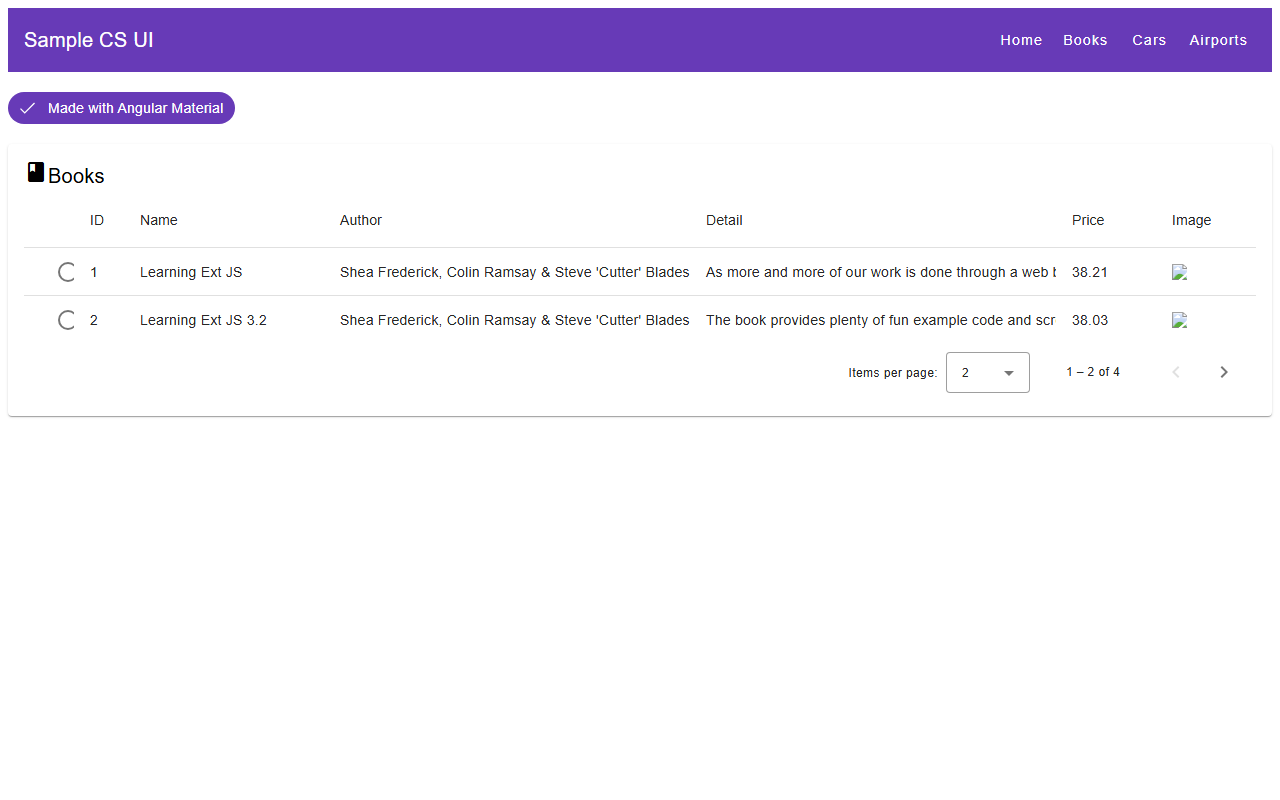
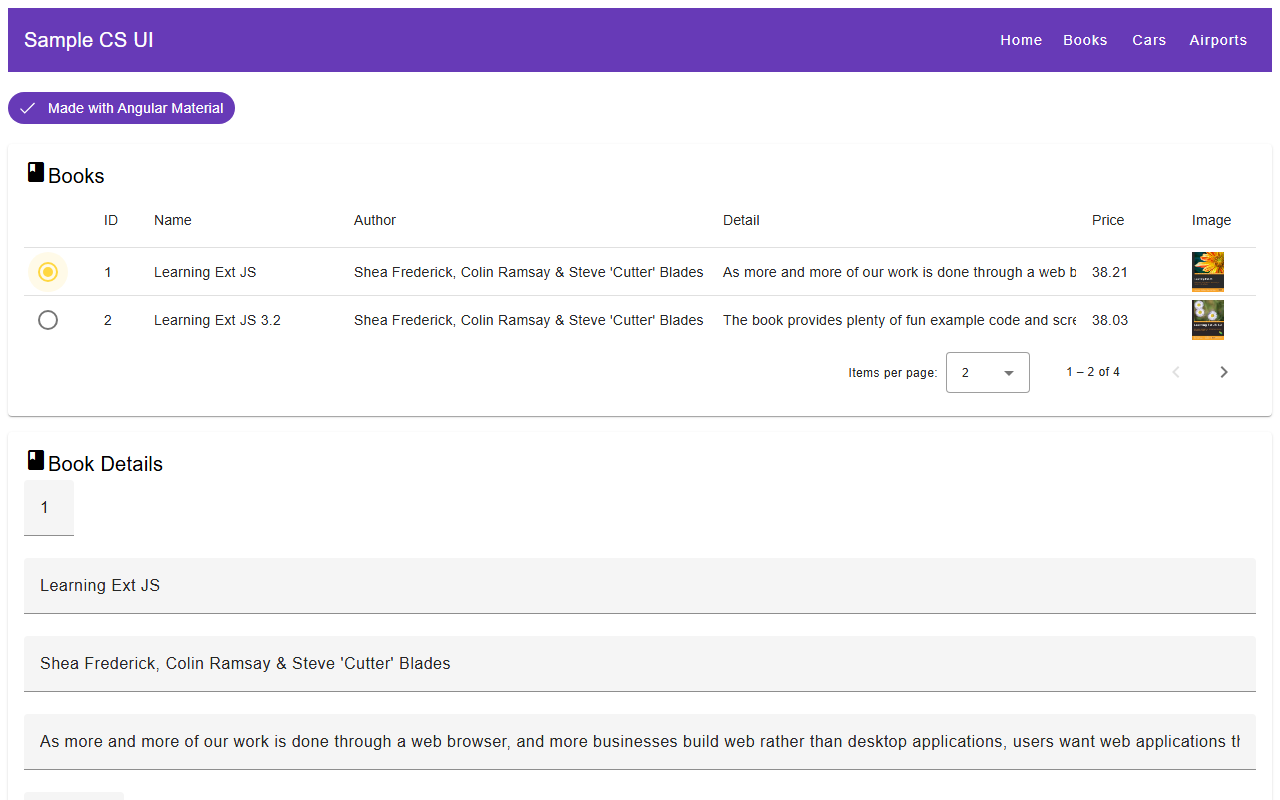
fix: fix broken images and books selection column width
- Replace /api/ image paths with /assets/ in books list, books detail,
  cars list and car detail (proxy is gone, assets are served directly)
- books-detail: replace <input type="image"> with <img> (was rendering
  as a broken submit button)
- books-list: widen selection column 50px → 64px so mat-radio-button is
  not clipped; fix image thumbnail to use height-based sizing instead of
  width: 25% of a narrow column
- cars-list: apply consistent height-based thumbnail sizing
- Update screenshots

diff --git a/src/app/books/books-list/books-list.component.html b/src/app/books/books-list/books-list.component.html
@@ -33,7 +33,7 @@
         </ng-container>
         <ng-container matColumnDef="image">
           <mat-header-cell *matHeaderCellDef> Image </mat-header-cell>
-          <mat-cell *matCellDef="let book"> <img src="/api/{{book.image}}"/> </mat-cell>
+          <mat-cell *matCellDef="let book"> <img src="/assets/{{book.image}}"/> </mat-cell>
         </ng-container>
         <mat-header-row *matHeaderRowDef="displayedColumns"></mat-header-row>
         <mat-row *matRowDef="let row; columns: displayedColumns;"></mat-row>

diff --git a/src/app/books/book-details/book-details.component.html b/src/app/books/book-details/book-details.component.html
@@ -21,7 +21,7 @@
             <input matInput placeholder="Price" readonly [value]="book.price" />
         </mat-form-field>
         <div>
-            <input placeholder="Image" id="bookImage" type="image" src="/api/{{book.image}}"/>
+            <img id="bookImage" alt="Book cover" src="/assets/{{book.image}}" style="max-height: 120px"/>
         </div>
       </form>
     </mat-card-content>

diff --git a/src/app/books/books-list/books-list.component.css b/src/app/books/books-list/books-list.component.css
@@ -1,5 +1,6 @@
 .mat-column-selection {
-  flex: 0 0 50px;
+  flex: 0 0 64px;
+  padding-left: 4px;
 }
 .mat-column-id {
   flex: 0 0 50px;
@@ -24,8 +25,9 @@
   flex: 0 0 100px;
 }
 .mat-column-image {
-  flex: 0 0 100px;
+  flex: 0 0 80px;
 }
 .mat-column-image img {
-  width: 25%;
+  height: 40px;
+  width: auto;
 }

diff --git a/src/app/cars/car-details/car-details.component.html b/src/app/cars/car-details/car-details.component.html
@@ -19,7 +19,7 @@
         <label>Wiki :</label>
         <a href="{{car.wiki}}">Wiki</a>
         <label>Image :</label>
-        <img src="api/{{car.image}}">
+        <img src="/assets/{{car.image}}" style="max-height: 120px; width: auto">
       </div>
     </form>
   </p-panel>

diff --git a/src/app/cars/cars-list/cars-list.component.html b/src/app/cars/cars-list/cars-list.component.html
@@ -37,7 +37,7 @@
           <a href="{{car.wiki}}">Wiki</a>
         </td>
         <td>
-          <img src="/api/{{car.image}}" style="width: 25%">
+          <img src="/assets/{{car.image}}" style="height: 40px; width: auto">
         </td>
       </tr>
     </ng-template>
